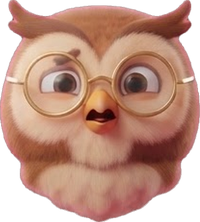
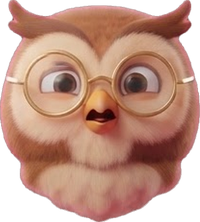
Coruja: tira a mancha sobre o olho no rosto de fala
Claude-Session: https://claude.ai/code/session_01Frdvkhm1JF1WMGn3Yk7Hwn

Changed region(s): [[0.21, 0.2162, 0.42, 0.2973]]

diff --git a/index.html b/index.html
@@ -7,7 +7,7 @@
 <link rel="preconnect" href="https://fonts.googleapis.com">
 <link rel="preconnect" href="https://fonts.gstatic.com" crossorigin>
 <link href="https://fonts.googleapis.com/css2?family=Fredoka:wght@500;600;700&family=Nunito:wght@700;800;900&display=swap" rel="stylesheet">
-<link rel="stylesheet" href="css/base.css?v=202611262331">
+<link rel="stylesheet" href="css/base.css?v=202611262342">
 <style>
 /* O palco tem 1920×1080 e é escalado para caber em qualquer TV ou monitor */
 #palco{position:absolute;left:50%;top:50%;width:1920px;height:1080px;transform-origin:0 0;overflow:hidden;
@@ -506,13 +506,13 @@
 </div>
 <script src="https://cdn.jsdelivr.net/npm/@supabase/supabase-js@2/dist/umd/supabase.js"></script>
 <script src="https://cdn.jsdelivr.net/npm/qrcode-generator@1.4.4/qrcode.js"></script>
-<script src="js/config.js?v=202611262331"></script>
-<script src="js/comum.js?v=202611262331"></script>
-<script src="js/perguntas.js?v=202611262331"></script>
-<script src="js/associacao.js?v=202611262331"></script>
-<script src="js/piramide-pos.js?v=202611262331"></script>
-<script src="js/inuteis.js?v=202611262331"></script>
-<script src="js/coruja.js?v=202611262331"></script>
-<script src="js/tv.js?v=202611262331"></script>
+<script src="js/config.js?v=202611262342"></script>
+<script src="js/comum.js?v=202611262342"></script>
+<script src="js/perguntas.js?v=202611262342"></script>
+<script src="js/associacao.js?v=202611262342"></script>
+<script src="js/piramide-pos.js?v=202611262342"></script>
+<script src="js/inuteis.js?v=202611262342"></script>
+<script src="js/coruja.js?v=202611262342"></script>
+<script src="js/tv.js?v=202611262342"></script>
 </body>
 </html>

diff --git a/c/index.html b/c/index.html
@@ -14,7 +14,7 @@
 <link rel="preconnect" href="https://fonts.googleapis.com">
 <link rel="preconnect" href="https://fonts.gstatic.com" crossorigin>
 <link href="https://fonts.googleapis.com/css2?family=Fredoka:wght@500;600;700&family=Nunito:wght@700;800;900&display=swap" rel="stylesheet">
-<link rel="stylesheet" href="../css/base.css?v=202611262331">
+<link rel="stylesheet" href="../css/base.css?v=202611262342">
 <style>
 body{background-size:28px 28px;background-image:radial-gradient(circle,var(--ponto) 2.5px,transparent 3.5px)}
 .tela{position:fixed;inset:0;padding:max(14px,env(safe-area-inset-top)) max(22px,env(safe-area-inset-right)) max(14px,env(safe-area-inset-bottom)) max(22px,env(safe-area-inset-left));display:flex;align-items:center;gap:26px}
@@ -288,9 +288,9 @@ input:focus{box-shadow:0 5px 0 var(--azul)}
 
 <script>window.QSS_BASE = '../';</script>
 <script src="https://cdn.jsdelivr.net/npm/@supabase/supabase-js@2/dist/umd/supabase.js"></script>
-<script src="../js/config.js?v=202611262331"></script>
-<script src="../js/comum.js?v=202611262331"></script>
-<script src="../js/efeitos.js?v=202611262331"></script>
-<script src="../js/celular.js?v=202611262331"></script>
+<script src="../js/config.js?v=202611262342"></script>
+<script src="../js/comum.js?v=202611262342"></script>
+<script src="../js/efeitos.js?v=202611262342"></script>
+<script src="../js/celular.js?v=202611262342"></script>
 </body>
 </html>

diff --git a/js/coruja.js b/js/coruja.js
@@ -40,7 +40,7 @@
         const F = {};
         for (const n of ROSTOS) {
           const f = ly.faces[n];
-          const im = el('image', { href: B + 'cabeca_' + n + '.png', width: f.w, height: f.h, x: (f.x - ly.px).toFixed(1), y: (f.y - ly.py).toFixed(1) });
+          const im = el('image', { href: B + 'cabeca_' + n + '.png?v=2', width: f.w, height: f.h, x: (f.x - ly.px).toFixed(1), y: (f.y - ly.py).toFixed(1) });
           im.style.display = n === 'neutra' ? '' : 'none'; lg.append(im); F[n] = im;
         }
         L.faces = F;
